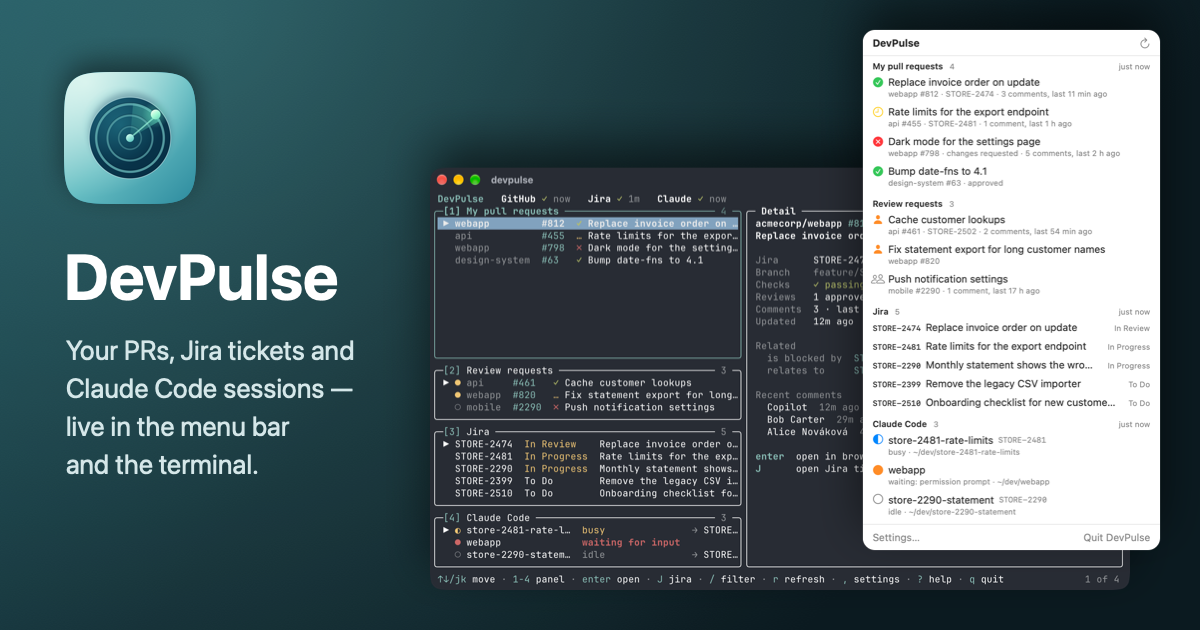
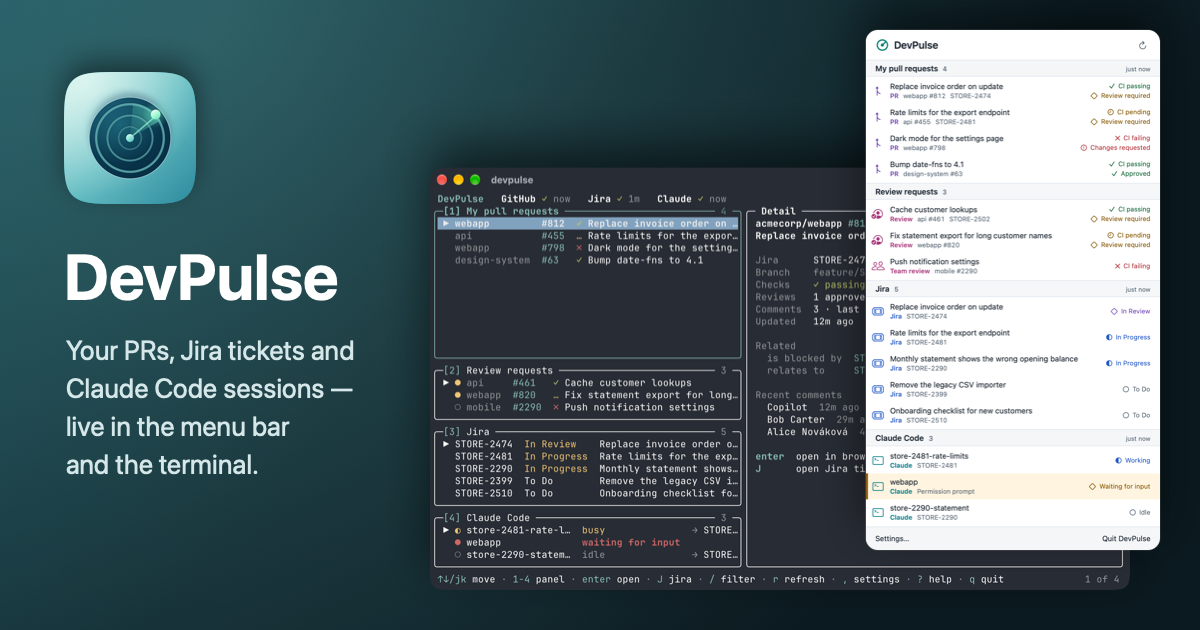
feat: session folder in the detail header, readable list identifiers, new screenshots and website images

Changed region(s): [[0.7092, 0.0603, 0.9867, 0.8746], [0.8942, 0.8444, 0.9558, 0.8746]]

diff --git a/docs/manual.html b/docs/manual.html
@@ -208,17 +208,17 @@ gh auth login</code></pre>
         (<span class="ui">PR</span> violet, <span class="ui">Review</span> magenta,
         <span class="ui">Jira</span> blue, <span class="ui">Claude</span> cyan), and its state on the
         right, as a shape and a word. The launcher uses the same marks.</p>
-        <figure class="fig" style="max-width:28rem">
-          <div class="view" style="--iw:760;--ih:1330">
+        <figure class="fig" style="max-width:32rem">
+          <div class="view" style="--iw:1040;--ih:1838">
             <img src="assets/manual/devpulse-popover.png" alt="The DevPulse popover with pull requests, review requests, Jira tickets and three Claude Code sessions">
-            <span class="mark" style="--x:92.1;--y:0.9;--w:5.3;--h:3"><b>1</b></span>
-            <span class="mark" style="--x:83.7;--y:6;--w:13.7;--h:2.1"><b>2</b></span>
-            <span class="mark" style="--x:2.1;--y:8.5;--w:81.6;--h:4.8"><b>3</b></span>
-            <span class="mark" style="--x:2.1;--y:35.3;--w:5.8;--h:15.8"><b>4</b></span>
-            <span class="mark" style="--x:2.1;--y:56;--w:95.8;--h:2.8"><b>5</b></span>
-            <span class="mark" style="--x:2.1;--y:77.6;--w:62;--h:4.5"><b>6</b></span>
-            <span class="mark" style="--x:1.8;--y:95.7;--w:17.9;--h:3.3"><b>7</b></span>
-            <span class="mark" style="--x:73.4;--y:95.7;--w:25;--h:3.3"><b>8</b></span>
+            <span class="mark" style="--x:91.5;--y:1;--w:6.5;--h:4"><b>1</b></span>
+            <span class="mark" style="--x:86.5;--y:6.4;--w:11.5;--h:2.2"><b>2</b></span>
+            <span class="mark" style="--x:1;--y:9.6;--w:98;--h:4.4"><b>3</b></span>
+            <span class="mark" style="--x:1;--y:33.4;--w:98;--h:14.3"><b>4</b></span>
+            <span class="mark" style="--x:1;--y:52.2;--w:98;--h:4.4"><b>5</b></span>
+            <span class="mark" style="--x:0.3;--y:85.3;--w:99.4;--h:5"><b>6</b></span>
+            <span class="mark" style="--x:1;--y:96.2;--w:16;--h:3.3"><b>7</b></span>
+            <span class="mark" style="--x:78;--y:96.2;--w:21;--h:3.3"><b>8</b></span>
           </div>
           <figcaption>The popover has four sections: My pull requests, Review
           requests, Jira and Claude Code. It scrolls when they are long.</figcaption>
@@ -416,11 +416,12 @@ gh auth login</code></pre>
         <a href="#general">General settings</a>. The results are on the left,
         and on the right is the detail of the selected one.</p>
         <figure class="fig">
-          <div class="view" style="--iw:1720;--ih:866">
+          <div class="view" style="--iw:2080;--ih:1208">
             <img src="assets/manual/devpulse-launcher.png" alt="The quick launcher for the query gh: pull requests on the left, the selected pull request's ticket and related tickets on the right">
-            <span class="mark" style="--x:1;--y:1;--w:98;--h:11.5"><b>1</b></span>
-            <span class="mark" style="--x:0.7;--y:14;--w:43.4;--h:85"><b>2</b></span>
-            <span class="mark" style="--x:44.8;--y:14;--w:54.5;--h:85"><b>3</b></span>
+            <span class="mark" style="--x:14.5;--y:1.5;--w:79.5;--h:8"><b>1</b></span>
+            <span class="mark" style="--x:0.5;--y:11.3;--w:41.2;--h:81.8"><b>2</b></span>
+            <span class="mark" style="--x:42.4;--y:11.3;--w:57.1;--h:81.8"><b>3</b></span>
+            <span class="mark" style="--x:0.5;--y:94;--w:99;--h:5.5"><b>4</b></span>
           </div>
           <figcaption>The launcher after typing <code>gh</code>.</figcaption>
         </figure>
@@ -462,7 +463,7 @@ gh auth login</code></pre>
           you are in the detail.</dd>
         </dl>
         <figure class="fig">
-          <div class="view" style="--iw:1720;--ih:866">
+          <div class="view" style="--iw:2080;--ih:1208">
             <img src="assets/manual/devpulse-launcher-number.png" alt="The quick launcher for the number 2290: a review request, a Jira ticket and a Claude Code session; on the right the session's ticket and its related tickets">
           </div>
           <figcaption>A bare number finds everything with it: here the review request #2290, the ticket STORE-2290 and the session in <code>store-2290-statement</code>, whose ticket shows on the right.</figcaption>
@@ -496,7 +497,7 @@ gh auth login</code></pre>
           </table>
         </div>
         <figure class="fig">
-          <div class="view" style="--iw:1720;--ih:866">
+          <div class="view" style="--iw:2080;--ih:1208">
             <img src="assets/manual/devpulse-launcher-detail.png" alt="The quick launcher for the number 2474: the ticket STORE-2474, and on the right its pull request #812 and two related tickets">
           </div>
           <figcaption>The detail of the ticket STORE-2474: its pull request #812, the ticket that blocks it and one it relates to.</figcaption>

diff --git a/docs/cs/manual.html b/docs/cs/manual.html
@@ -209,17 +209,17 @@ gh auth login</code></pre>
         (<span class="ui">PR</span> fialově, <span class="ui">Review</span> purpurově,
         <span class="ui">Jira</span> modře, <span class="ui">Claude</span> tyrkysově), a vpravo
         ukazuje svůj stav tvarem a slovem. Rychlé hledání používá stejné značky.</p>
-        <figure class="fig" style="max-width:28rem">
-          <div class="view" style="--iw:760;--ih:1330">
+        <figure class="fig" style="max-width:32rem">
+          <div class="view" style="--iw:1040;--ih:1838">
             <img src="../assets/manual/devpulse-popover.png" alt="Okénko DevPulse s pull requesty, žádostmi o review, tikety z Jiry a třemi sessions Claude Code">
-            <span class="mark" style="--x:92.1;--y:0.9;--w:5.3;--h:3"><b>1</b></span>
-            <span class="mark" style="--x:83.7;--y:6;--w:13.7;--h:2.1"><b>2</b></span>
-            <span class="mark" style="--x:2.1;--y:8.5;--w:81.6;--h:4.8"><b>3</b></span>
-            <span class="mark" style="--x:2.1;--y:35.3;--w:5.8;--h:15.8"><b>4</b></span>
-            <span class="mark" style="--x:2.1;--y:56;--w:95.8;--h:2.8"><b>5</b></span>
-            <span class="mark" style="--x:2.1;--y:77.6;--w:62;--h:4.5"><b>6</b></span>
-            <span class="mark" style="--x:1.8;--y:95.7;--w:17.9;--h:3.3"><b>7</b></span>
-            <span class="mark" style="--x:73.4;--y:95.7;--w:25;--h:3.3"><b>8</b></span>
+            <span class="mark" style="--x:91.5;--y:1;--w:6.5;--h:4"><b>1</b></span>
+            <span class="mark" style="--x:86.5;--y:6.4;--w:11.5;--h:2.2"><b>2</b></span>
+            <span class="mark" style="--x:1;--y:9.6;--w:98;--h:4.4"><b>3</b></span>
+            <span class="mark" style="--x:1;--y:33.4;--w:98;--h:14.3"><b>4</b></span>
+            <span class="mark" style="--x:1;--y:52.2;--w:98;--h:4.4"><b>5</b></span>
+            <span class="mark" style="--x:0.3;--y:85.3;--w:99.4;--h:5"><b>6</b></span>
+            <span class="mark" style="--x:1;--y:96.2;--w:16;--h:3.3"><b>7</b></span>
+            <span class="mark" style="--x:78;--y:96.2;--w:21;--h:3.3"><b>8</b></span>
           </div>
           <figcaption>Okénko má čtyři části: My pull requests, Review requests,
           Jira a Claude Code. Když se nevejdou, dá se v nich posouvat.</figcaption>
@@ -415,11 +415,12 @@ gh auth login</code></pre>
         zkratku změníte v <a href="#general">obecných nastaveních</a>. Vlevo jsou
         výsledky, vpravo detail vybraného výsledku.</p>
         <figure class="fig">
-          <div class="view" style="--iw:1720;--ih:866">
+          <div class="view" style="--iw:2080;--ih:1208">
             <img src="../assets/manual/devpulse-launcher.png" alt="Rychlé hledání pro dotaz gh: vlevo pull requesty, vpravo tiket vybraného pull requestu a související tikety">
-            <span class="mark" style="--x:1;--y:1;--w:98;--h:11.5"><b>1</b></span>
-            <span class="mark" style="--x:0.7;--y:14;--w:43.4;--h:85"><b>2</b></span>
-            <span class="mark" style="--x:44.8;--y:14;--w:54.5;--h:85"><b>3</b></span>
+            <span class="mark" style="--x:14.5;--y:1.5;--w:79.5;--h:8"><b>1</b></span>
+            <span class="mark" style="--x:0.5;--y:11.3;--w:41.2;--h:81.8"><b>2</b></span>
+            <span class="mark" style="--x:42.4;--y:11.3;--w:57.1;--h:81.8"><b>3</b></span>
+            <span class="mark" style="--x:0.5;--y:94;--w:99;--h:5.5"><b>4</b></span>
           </div>
           <figcaption>Rychlé hledání po napsání <code>gh</code>.</figcaption>
         </figure>
@@ -461,7 +462,7 @@ gh auth login</code></pre>
           <span class="ui">Back</span>.</dd>
         </dl>
         <figure class="fig">
-          <div class="view" style="--iw:1720;--ih:866">
+          <div class="view" style="--iw:2080;--ih:1208">
             <img src="../assets/manual/devpulse-launcher-number.png" alt="Rychlé hledání pro číslo 2290: žádost o review, tiket z Jiry a session Claude Code; vpravo tiket session a jeho související tikety">
           </div>
           <figcaption>Samotné číslo najde všechno, co ho nese: tady žádost o review #2290, tiket STORE-2290 a session ve složce <code>store-2290-statement</code>, jejíž tiket je vpravo.</figcaption>
@@ -495,7 +496,7 @@ gh auth login</code></pre>
           </table>
         </div>
         <figure class="fig">
-          <div class="view" style="--iw:1720;--ih:866">
+          <div class="view" style="--iw:2080;--ih:1208">
             <img src="../assets/manual/devpulse-launcher-detail.png" alt="Rychlé hledání pro číslo 2474: tiket STORE-2474 a vpravo jeho pull request #812 a dva související tikety">
           </div>
           <figcaption>Detail tiketu STORE-2474: jeho pull request #812, tiket, který ho blokuje, a jeden související.</figcaption>

diff --git a/Sources/DevPulseCore/Launcher/LauncherDetail.swift b/Sources/DevPulseCore/Launcher/LauncherDetail.swift
@@ -20,6 +20,8 @@ public struct LauncherDetail: Equatable, Sendable {
     public var item: LauncherItem
     /// What the result is, spelled out: "Jira ticket", "Pull request", "Claude Code session".
     public var heading: String
+    /// The line under the name: a session's folder, else the identifier.
+    public var subheading: String?
 
     /// The rows the keyboard moves through, in order.
     public var items: [LauncherItem] { sections.flatMap(\.items) }
@@ -35,7 +37,9 @@ extension LauncherResolver {
         var sections: [LauncherDetail.Section] = []
         // A row that says "Not found" has nothing more to show.
         if isMissing(item.subject, lookup: lookup) {
-            return LauncherDetail(title: item.title, subtitle: item.subtitle, sections: [], item: item, heading: heading(item.kind))
+            return LauncherDetail(
+                title: item.title, subtitle: item.subtitle, sections: [], item: item, heading: heading(item.kind),
+                subheading: item.identifier)
         }
         switch item.subject {
         case .ticket(let key)? where !isOn(.github, settings):
@@ -60,7 +64,13 @@ extension LauncherResolver {
                     snapshot: snapshot, settings: settings, lookup: lookup)
             }
         }
-        return LauncherDetail(title: item.title, subtitle: item.subtitle, sections: sections, item: item, heading: heading(item.kind))
+        var subheading = item.identifier
+        if case .session(let pid) = item.target, let session = snapshot.sessions.first(where: { $0.pid == pid }) {
+            subheading = (session.cwd as NSString).abbreviatingWithTildeInPath
+        }
+        return LauncherDetail(
+            title: item.title, subtitle: item.subtitle, sections: sections, item: item, heading: heading(item.kind),
+            subheading: subheading)
     }
 
     /// What to ask Jira and GitHub before the detail is complete: a ticket's PRs in the

diff --git a/Sources/DevPulse/Launcher/LauncherView.swift b/Sources/DevPulse/Launcher/LauncherView.swift
@@ -295,8 +295,8 @@ struct LauncherView: View {
                     Text(item.name ?? item.title)
                         .font(.system(size: 22, weight: .semibold)).foregroundStyle(Lookout.primary)
                         .lineLimit(3).fixedSize(horizontal: false, vertical: true)
-                    if let identifier = item.identifier {
-                        Text(identifier)
+                    if let subheading = detail.subheading {
+                        Text(subheading)
                             .font(.system(size: 13, design: .monospaced)).foregroundStyle(Lookout.secondary)
                             .lineLimit(1).truncationMode(.middle)
                     }
@@ -455,8 +455,11 @@ private struct ResultRow: View {
                 HStack(spacing: 8) {
                     Text(item.kind.label).font(.system(size: 12, weight: .semibold)).foregroundStyle(Lookout.color(item.kind))
                     if let identifier = item.identifier {
-                        Text(identifier).font(.system(size: 12)).monospacedDigit().foregroundStyle(Lookout.secondary)
-                            .lineLimit(1).truncationMode(.middle)
+                        // The list keeps the number: the repository goes without its owner
+                        // here, the detail shows it in full.
+                        Text(identifier.replacing(/^[^\/\s]+\//, with: ""))
+                            .font(.system(size: 12)).monospacedDigit().foregroundStyle(Lookout.secondary)
+                            .lineLimit(1).truncationMode(.tail)
                     }
                 }
                 Text(item.name ?? item.title).font(.system(size: 14)).foregroundStyle(Lookout.primary).lineLimit(1)

diff --git a/Tests/DevPulseCoreTests/LauncherPresentationTests.swift b/Tests/DevPulseCoreTests/LauncherPresentationTests.swift
@@ -92,8 +92,14 @@ private func settings() -> AppSettings {
         let detail = LauncherResolver.detail(for: row, snapshot: snap, settings: settings(), lookup: LookupResults())
         #expect(detail.heading == "Review request")
         #expect(detail.sections.map(\.title) == ["Linked ticket"])
-        let session = LauncherItem(title: "s", subtitle: "", kind: .session(.idle), target: .session(pid: 1))
-        #expect(LauncherResolver.detail(for: session, snapshot: snap, settings: settings(), lookup: LookupResults()).heading
-            == "Claude Code session")
+        let session = LauncherItem(
+            title: "s", subtitle: "", kind: .session(.idle), target: .session(pid: 1), identifier: "STORE-7")
+        let withSession = snapshot(sessions: [ClaudeSession(
+            pid: 1, name: "s", cwd: "/work/store-7", status: .idle, jiraKey: "STORE-7", updatedAt: Date(timeIntervalSince1970: 0))])
+        let sessionDetail = LauncherResolver.detail(for: session, snapshot: withSession, settings: settings(), lookup: LookupResults())
+        #expect(sessionDetail.heading == "Claude Code session")
+        // A session's header line is its folder; a ticket's or PR's is its identifier.
+        #expect(sessionDetail.subheading == "/work/store-7")
+        #expect(detail.subheading == "acme/store #5 · STORE-7")
     }
 }

diff --git a/Sources/DevPulse/AppModel.swift b/Sources/DevPulse/AppModel.swift
@@ -171,6 +171,12 @@ final class AppModel {
     /// without the hotkey or a click on the menu bar. Something not understood stops the app.
     private func openDemoWindow() {
         #if DEBUG
+        // `-DevPulseDemoAppearance dark|light`: the demo's screenshots in either appearance.
+        switch UserDefaults.standard.string(forKey: "DevPulseDemoAppearance") {
+        case "dark": NSApp.appearance = NSAppearance(named: .darkAqua)
+        case "light": NSApp.appearance = NSAppearance(named: .aqua)
+        default: break
+        }
         guard let argument = UserDefaults.standard.string(forKey: "DevPulseDemoOpen") else { return }
         switch DemoOpen(argument: argument) {
         case .launcher(let query, let select):

diff --git a/Sources/DevPulse/Style/Lookout.swift b/Sources/DevPulse/Style/Lookout.swift
@@ -49,7 +49,7 @@ enum Lookout {
     static func symbol(_ kind: LauncherItem.Kind) -> String {
         switch kind {
         case .ticket: "ticket"
-        case .pullRequest: "arrow.triangle.branch"
+        case .pullRequest: "arrow.triangle.pull"
         case .reviewRequest(let direct): direct ? "person.crop.circle.badge.checkmark" : "person.2"
         case .session: "apple.terminal"
         }

diff --git a/Sources/DevPulse/MenuBar/SectionViews.swift b/Sources/DevPulse/MenuBar/SectionViews.swift
@@ -72,7 +72,8 @@ struct RowButton<Label: View>: View {
     var body: some View {
         Button(action: action) {
             label
-                .padding(.horizontal, 10)
+                .padding(.leading, 8)
+                .padding(.trailing, 16)
                 .frame(maxWidth: .infinity, minHeight: 46, alignment: .leading)
                 .contentShape(Rectangle())
         }

diff --git a/development_workflow.md b/development_workflow.md
@@ -145,7 +145,7 @@ A demo runs next to an installed DevPulse without touching it:
   Keychain; Save and Test Connection refuse. General shows launch at login on and the command
   line tool installed. Remove the suite afterwards: `defaults delete io.jp4.devpulse.demo`.
 - `-DevPulseDemoOpen <what>` opens a window right after launch, so no hotkey or menu bar click
-  is needed: `launcher:<query>` (the launcher with the query typed in; `launcher:<query>@<row>` also selects that row, so its detail shows; `-DevPulseDemoKeys tab,down,…` then presses those keys (`tab`, `backtab`, `up`, `down`, `left`, `right`) inside the demo's own launcher panel, never in another app), `popover` (the popover's
+  is needed: `launcher:<query>` (the launcher with the query typed in; `launcher:<query>@<row>` also selects that row, so its detail shows; `-DevPulseDemoAppearance dark` or `light` draws it in that appearance; `-DevPulseDemoKeys tab,down,…` then presses those keys (`tab`, `backtab`, `up`, `down`, `left`, `right`) inside the demo's own launcher panel, never in another app), `popover` (the popover's
   content in a plain window at its real size) or `settings:<tab>` (`general`, `github`,
   `jira`, `notifications`, `updates`).
 - The terminal client of a debug build connects to the socket in `DEVPULSE_SOCKET` and then
